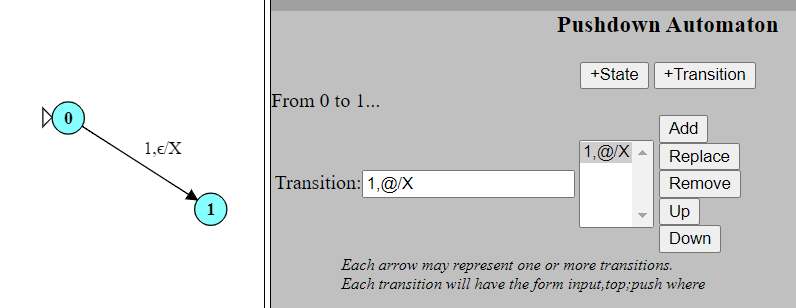
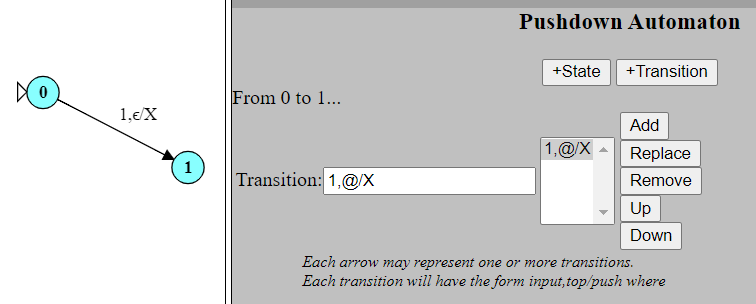
PDA documentation tweaks

Changed region(s): [[0.0, 0.0, 1.0, 1.0], [0.6997, 0.1776, 0.9431, 0.2961], [0.1521, 0.5033, 0.1825, 0.5329]]

diff --git a/docs/src/jbake/content/pda.md b/docs/src/jbake/content/pda.md
@@ -61,6 +61,6 @@ Below the main editing area for your FA, you can see the testing area:
 associated with that state.  Because of the nondeterminism of PDAs,
 different states may have different stacks, or the same state can be active in multiple ways (different stack contents).
 
-    \picOnRight(pdaTest, 60)
+    <img src='images/pdaTest.png' style='float: right;'/>
 
     For example, this automaton, after 4 input characters have been processed, has state 0 active with a stack `1110Z`. It also has state 1 active with a stack of `10z` and active a second time with stack `1110Z`.
